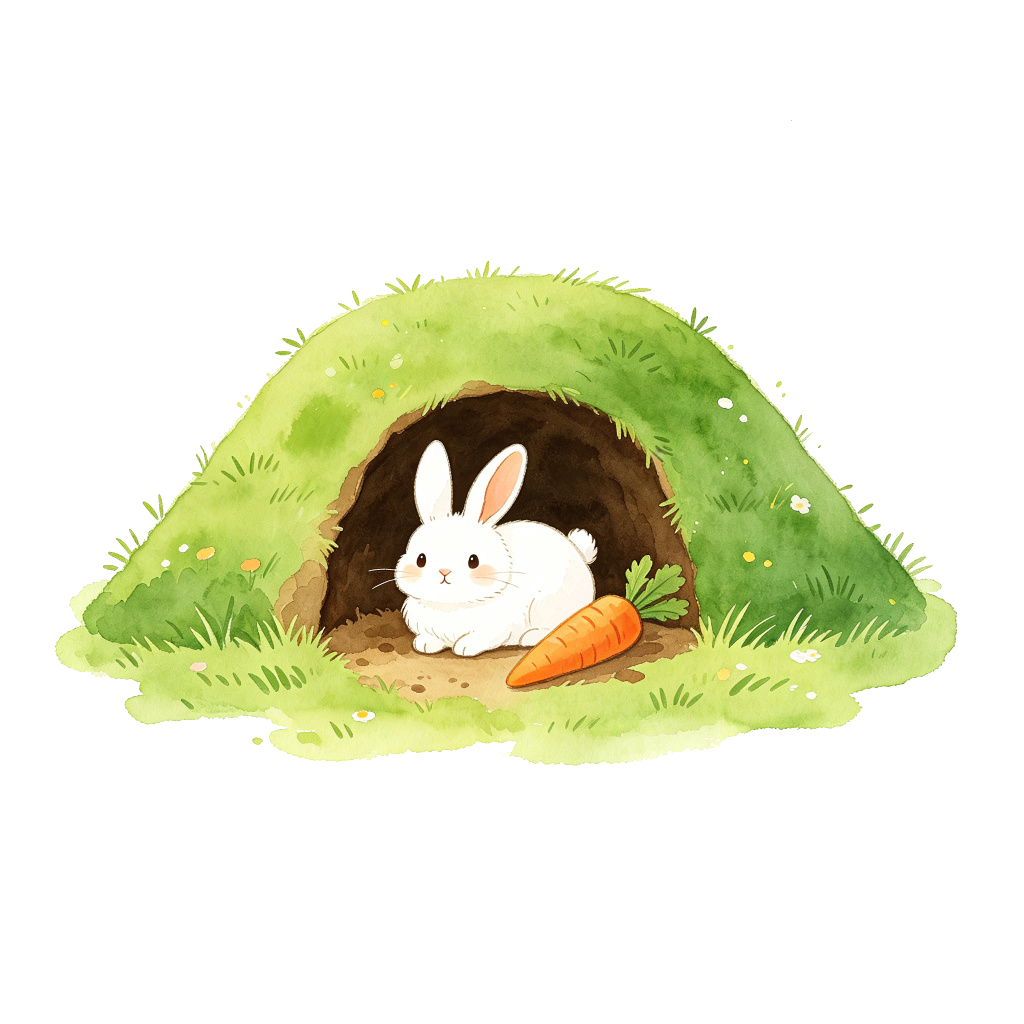
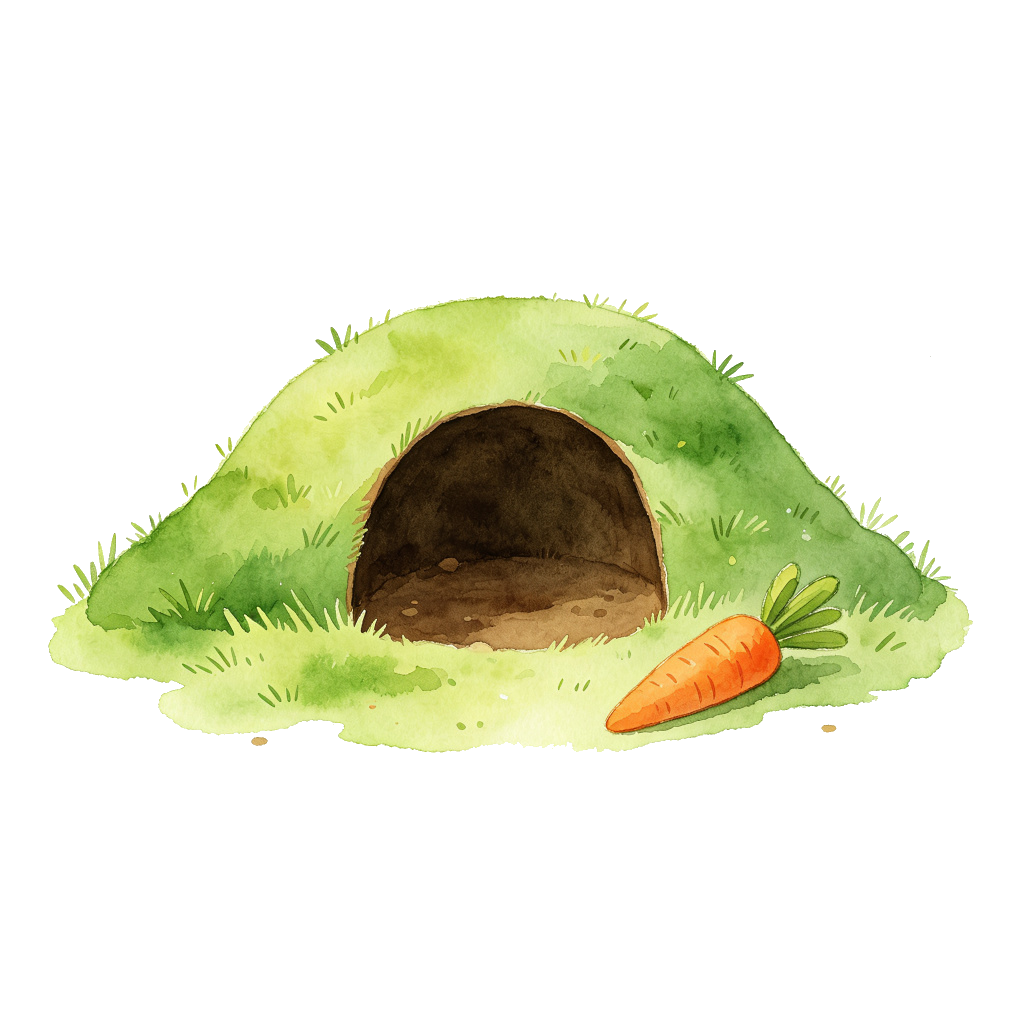
动物乐园窝位重构: 1) 窝图标重新生成6个空窝(猫窝/狗屋/兔洞/牛棚/马厩/熊猫窝, 纯白底抠成透明, 窝内不含动物), 宠物头像单独展示; 2) renderPark 宠物头像居中显示在窝的核心位置(原在窝下方); 3) 版本参数升级v=20260905强制刷新

Changed region(s): [[0.0312, 0.25, 0.9688, 0.75]]

diff --git a/index.html b/index.html
@@ -3689,7 +3689,7 @@ function renderPark(){
     if(selectedParkSlot===slotIdx) div.classList.add("parkSlotSel");
     if(pet){
       const defaultImg=`assets/pets/${pet.id}.png?v=20260904`;
-      const homeImg=`assets/pet-homes/${pet.id}.png?v=20260904`;
+      const homeImg=`assets/pet-homes/${pet.id}.png?v=20260905`;
       // 宠物头像（放在窝前面）
       const petAvatar=pet.avatar
         ?`<img src="${pet.avatar}" style="width:100%;aspect-ratio:1;border-radius:50%;object-fit:cover;border:2px solid rgba(255,255,255,.85);box-shadow:0 2px 8px rgba(0,0,0,.35);">`
@@ -3697,9 +3697,9 @@ function renderPark(){
       const nameLabel=LANG==="en"?`${pet.name}'s Home`:`${pet.name}之家`;
       div.innerHTML=`
         <div style="display:flex;flex-direction:column;align-items:center;gap:2px;width:100%;">
-          <div style="position:relative;width:100%;aspect-ratio:1;display:flex;align-items:flex-end;justify-content:center;">
+          <div style="position:relative;width:100%;aspect-ratio:1;display:flex;align-items:center;justify-content:center;">
             <img src="${homeImg}" style="position:absolute;inset:0;width:100%;height:100%;object-fit:contain;filter:drop-shadow(0 2px 6px rgba(0,0,0,.3));" onerror="this.style.display='none'">
-            <div style="position:relative;z-index:2;width:56%;margin-bottom:4%;">${petAvatar}</div>
+            <div style="position:relative;z-index:2;width:46%;">${petAvatar}</div>
           </div>
           <span style="font-size:clamp(8px,2.2vw,12px);font-weight:700;color:#fff;background:linear-gradient(135deg,#8B4513,#A0522D);padding:1px 8px;border-radius:8px;white-space:nowrap;max-width:90%;overflow:hidden;text-overflow:ellipsis;box-shadow:0 1px 4px rgba(0,0,0,.4);text-shadow:0 1px 2px rgba(0,0,0,.5);">${nameLabel}</span>
         </div>`;
